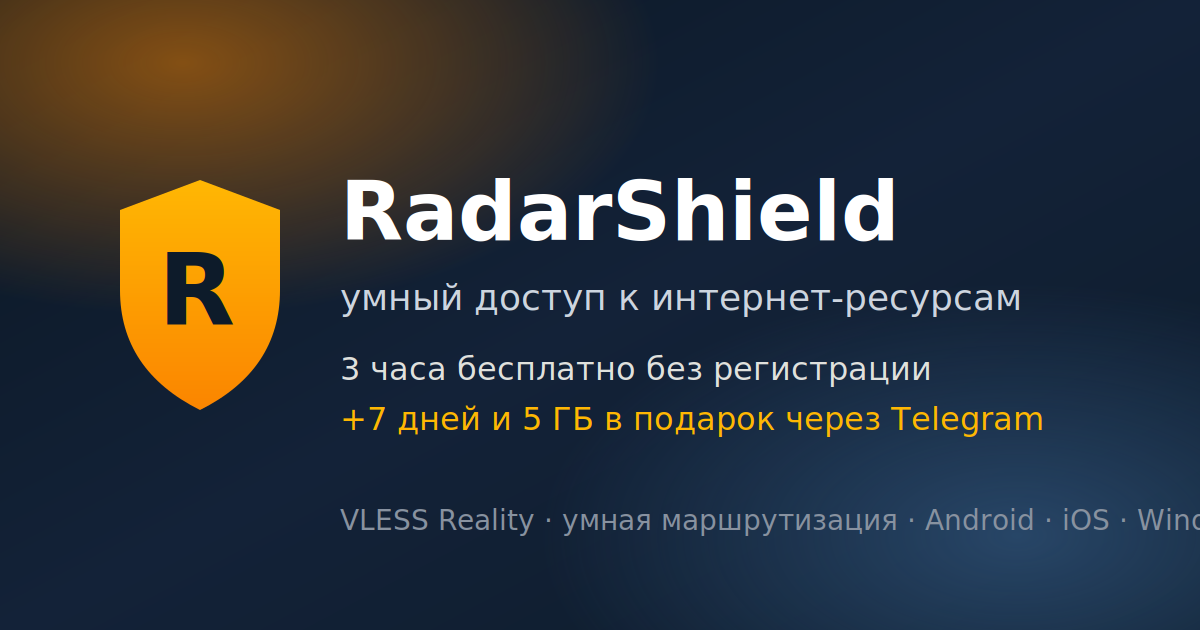
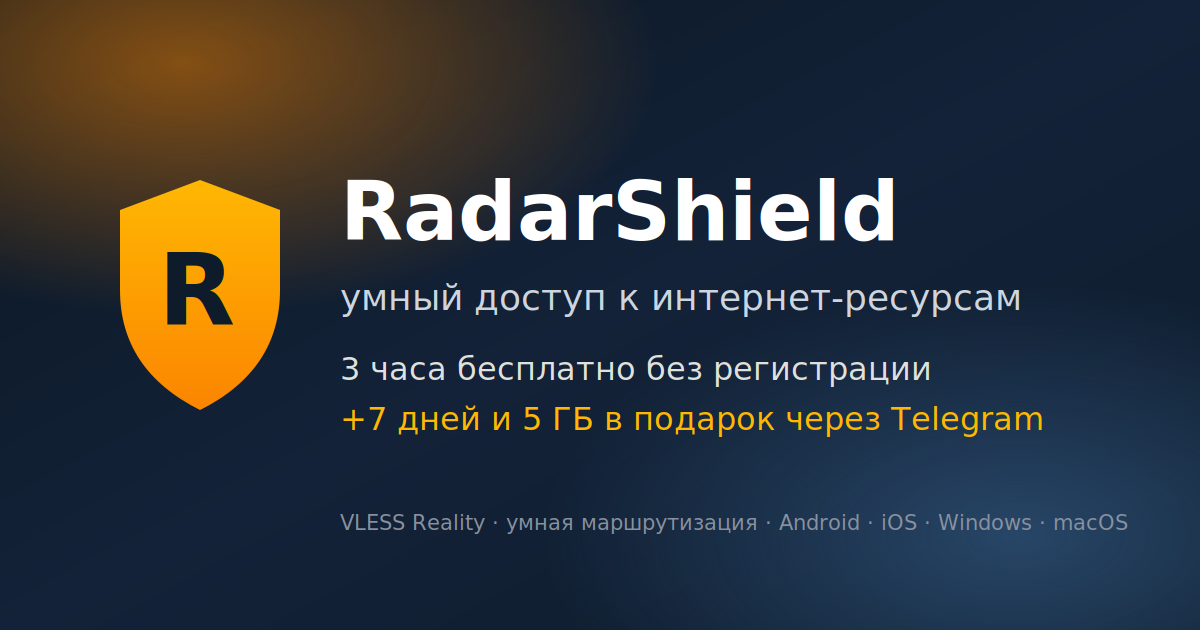
По ревью: og-картинка без обрезки, цены в текстах из config.PLANS
- нижняя строка og-image не влезала в 1200px при рендере DejaVu, уменьшен
  кегль; картинка перерисована
- тексты FAQ и llms.txt брали цены и часы пробного хардкодом: теперь
  подставляются из config.PLANS и LANDING_TRIAL_HOURS
- разметка FAQPage собирается из того же списка, что видимый блок, список
  передаётся в home_jsonld явно
- тест сверяет цены в текстах с config.PLANS

Changed region(s): [[0.2775, 0.7841, 1.0, 0.8444]]

diff --git a/landing/seo.py b/landing/seo.py
@@ -72,8 +72,9 @@ def sitemap_xml(site_url: str) -> str:
 # Вопросы главной: один источник и для видимого блока, и для FAQPage.
 # Разметка без видимого текста считается нарушением, а дублировать тексты
 # руками значит рано или поздно их разъехать. Ответы короткие (40-60 слов):
-# ИИ-движки цитируют такие целиком.
-HOME_FAQ = [
+# ИИ-движки цитируют такие целиком. Цены и часы пробного подставляются из
+# config.PLANS и LANDING_TRIAL_HOURS, иначе тексты переживут смену тарифов.
+_HOME_FAQ = [
     (
         "Будет ли работать, если провайдер режет VPN?",
         "Для этого в сервисе два разных транспорта. Основной, VLESS Reality, "
@@ -98,8 +99,8 @@ HOME_FAQ = [
     ),
     (
         "Сколько стоит и можно ли проверить бесплатно?",
-        "Месяц стоит 250 ₽, три месяца 599 ₽, год 1890 ₽, то есть 158 ₽ в месяц. "
-        "Трафик в любом тарифе без лимита. Проверить можно бесплатно: 3 часа "
+        "Месяц стоит {m} ₽, три месяца {q} ₽, год {y} ₽, то есть {pm} ₽ в месяц. "
+        "Трафик в любом тарифе без лимита. Проверить можно бесплатно: {h} часа "
         "прямо с сайта без регистрации и карты, плюс 7 дней и 5 ГБ через "
         "Telegram-бота.",
     ),
@@ -120,9 +121,20 @@ HOME_FAQ = [
 ]
 
 
-def home_jsonld(site_url: str, plans: list[dict]) -> dict:
+def home_faq(prices: dict[str, int], trial_hours: int) -> list[tuple[str, str]]:
+    """Вопросы с подставленными ценами и часами пробного периода."""
+    values = {
+        "m": prices["1m"], "q": prices["3m"], "y": prices["1y"],
+        "pm": round(prices["1y"] / 12), "h": trial_hours,
+    }
+    return [(q, a.format(**values)) for q, a in _HOME_FAQ]
+
+
+def home_jsonld(site_url: str, plans: list[dict],
+                faq: list[tuple[str, str]]) -> dict:
     """Разметка главной: сайт, приложение с тарифами и FAQ одним @graph,
-    чтобы сущности ссылались друг на друга, а не дублировались."""
+    чтобы сущности ссылались друг на друга, а не дублировались. faq тот же
+    список, что рендерится в видимый блок."""
     offers = [{
         "@type": "Offer",
         "name": p["name"],
@@ -180,13 +192,14 @@ def home_jsonld(site_url: str, plans: list[dict]) -> dict:
                     "@type": "Question",
                     "name": q,
                     "acceptedAnswer": {"@type": "Answer", "text": a},
-                } for q, a in HOME_FAQ],
+                } for q, a in faq],
             },
         ],
     }
 
 
-def llms_txt(site_url: str, bot_username: str, support_email: str) -> str:
+def llms_txt(site_url: str, bot_username: str, support_email: str,
+             prices: dict[str, int], trial_hours: int) -> str:
     return f"""# RadarShield
 
 > Сервис умной маршрутизации интернет-трафика для России: подключение остаётся
@@ -201,9 +214,10 @@ def llms_txt(site_url: str, bot_username: str, support_email: str) -> str:
 - Российские ресурсы (Яндекс, VK, Сбер, Ozon, Госуслуги и другие) идут напрямую,
   мимо туннеля, по встроенным в профиль правилам маршрутизации.
 - Содержимое трафика не хранится, логи только технические.
-- Тарифы: 250 ₽ за месяц, 599 ₽ за 3 месяца, 1890 ₽ за год (158 ₽/мес).
-- Бесплатно: 3 часа с сайта без регистрации и карты; 7 дней и 5 ГБ через
-  Telegram-бота.
+- Тарифы: {prices["1m"]} ₽ за месяц, {prices["3m"]} ₽ за 3 месяца,
+  {prices["1y"]} ₽ за год ({round(prices["1y"] / 12)} ₽/мес).
+- Бесплатно: {trial_hours} часа с сайта без регистрации и карты; 7 дней и 5 ГБ
+  через Telegram-бота.
 - Оплата: банковская карта, СБП, СберPay, T-Pay (через Robokassa), Telegram Stars.
 - Возврат: в первые 24 часа полностью, если подписка не использовалась, позже
   за неиспользованные дни.

diff --git a/tests/test_landing_seo.py b/tests/test_landing_seo.py
@@ -26,6 +26,8 @@ PLANS = [
     {"name": "3 месяца", "price": 599},
     {"name": "1 год", "price": 1890},
 ]
+PRICES = {"1m": 250, "3m": 599, "1y": 1890}
+TRIAL_HOURS = 3
 
 
 class _URL:
@@ -62,8 +64,8 @@ def _base_context(path, with_requisites=True):
         "active_token": None,
         "link_uid": "",
         "link_sig": "",
-        "home_faq": seo.HOME_FAQ,
-        "home_jsonld": seo.home_jsonld(SITE, PLANS),
+        "home_faq": seo.home_faq(PRICES, TRIAL_HOURS),
+        "home_jsonld": seo.home_jsonld(SITE, PLANS, seo.home_faq(PRICES, TRIAL_HOURS)),
         "page_updated": "2026-10-24",
         "title": "Публичная оферта",
         "heading": "Публичная оферта (договор)",
@@ -105,14 +107,14 @@ def test_home_faq_visible_and_matches_markup():
     html = _env().get_template("index.html").render(**_base_context("/"))
     graph = json.loads(_jsonld_blocks(html)[-1])["@graph"]
     faq = next(n for n in graph if n["@type"] == "FAQPage")
-    assert len(faq["mainEntity"]) == len(seo.HOME_FAQ)
-    for question, answer in seo.HOME_FAQ:
+    assert len(faq["mainEntity"]) == len(seo._HOME_FAQ)
+    for question, answer in seo.home_faq(PRICES, TRIAL_HOURS):
         assert question in html
         assert answer in html
 
 
 def test_home_jsonld_offers_from_plans():
-    graph = seo.home_jsonld(SITE, PLANS)["@graph"]
+    graph = seo.home_jsonld(SITE, PLANS, seo.home_faq(PRICES, TRIAL_HOURS))["@graph"]
     app = next(n for n in graph if n["@type"] == "SoftwareApplication")
     prices = [o["price"] for o in app["offers"]]
     assert prices == ["250", "599", "1890", "0"]
@@ -137,8 +139,20 @@ def test_sitemap_lists_public_pages_with_lastmod():
 
 
 def test_llms_txt_has_facts_and_links():
-    txt = seo.llms_txt(SITE, "radarshield_bot", "support@example.test")
+    txt = seo.llms_txt(SITE, "radarshield_bot", "support@example.test",
+                       PRICES, TRIAL_HOURS)
     assert txt.startswith("# RadarShield")
     assert f"{SITE}/guide" in txt
     assert "1890 ₽" in txt
     assert "https://t.me/radarshield_bot" in txt
+
+
+def test_texts_follow_real_tariffs():
+    """Цены в FAQ и llms.txt берутся из конфига, а не из прошлогодней правки."""
+    import config as cfg
+    prices = {k: kop // 100 for k, (_n, _d, _s, _ss, kop, _rs) in cfg.PLANS.items()}
+    answers = " ".join(a for _q, a in seo.home_faq(prices, TRIAL_HOURS))
+    txt = seo.llms_txt(SITE, "bot", "mail@example.test", prices, TRIAL_HOURS)
+    for value in prices.values():
+        assert f"{value} ₽" in answers
+        assert f"{value} ₽" in txt

diff --git a/landing/app.py b/landing/app.py
@@ -90,6 +90,16 @@ DOCS_UPDATED_AT = os.environ.get("DOCS_UPDATED_AT", "23 апреля 2026 г.")
 SITE_URL = os.environ.get("SITE_URL", "https://radarshield.mooo.com").rstrip("/")
 
 
+def _plan_prices() -> dict[str, int]:
+    """Цены тарифов в рублях из config.PLANS: тексты FAQ и llms.txt берут их
+    оттуда же, что и страница оплаты."""
+    import config as _cfg
+    return {
+        key: kopeks // 100
+        for key, (_n, _d, _s, _ss, kopeks, _rs) in _cfg.PLANS.items()
+    }
+
+
 def _page_context(request):
     """Общие переменные для всех рендеров — реквизиты ИП, контакты, футер."""
     return {
@@ -402,6 +412,7 @@ async def index(request: Request, uid: str = "", sig: str = ""):
         {"name": name, "price": rub_kopeks // 100}
         for name, _days, _stars, _stars_str, rub_kopeks, _rub_str in _cfg.PLANS.values()
     ]
+    home_faq = seo.home_faq(_plan_prices(), TRIAL_HOURS)
     return templates.TemplateResponse("index.html", {
         **_page_context(request),
         "downloads": APP_DOWNLOADS,
@@ -409,8 +420,8 @@ async def index(request: Request, uid: str = "", sig: str = ""):
         "active_token": active_token,
         "link_uid": link_uid,
         "link_sig": sig if link_uid else "",
-        "home_faq": seo.HOME_FAQ,
-        "home_jsonld": seo.home_jsonld(SITE_URL, plans),
+        "home_faq": home_faq,
+        "home_jsonld": seo.home_jsonld(SITE_URL, plans, home_faq),
     })
 
 
@@ -1627,7 +1638,8 @@ async def llms_txt():
     """Выжимка фактов о сервисе для ИИ-ассистентов: цены, платформы, правила
     маршрутизации. Чтобы в ответах ИИ не было выдумок про нас."""
     return PlainTextResponse(
-        seo.llms_txt(SITE_URL, BOT_USERNAME, SUPPORT_EMAIL),
+        seo.llms_txt(SITE_URL, BOT_USERNAME, SUPPORT_EMAIL,
+                     _plan_prices(), TRIAL_HOURS),
         media_type="text/markdown; charset=utf-8",
     )
 
